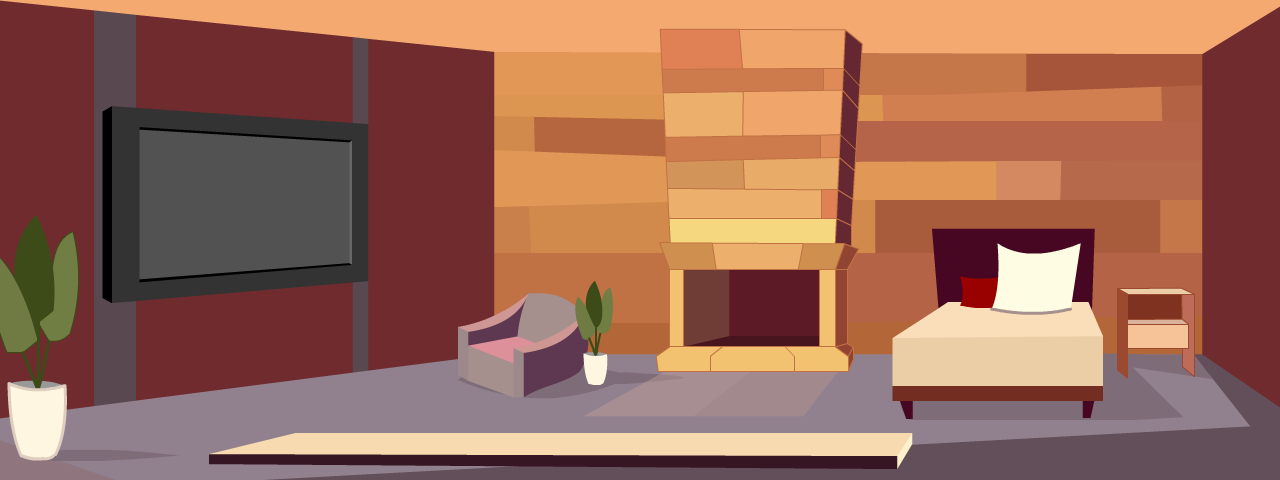
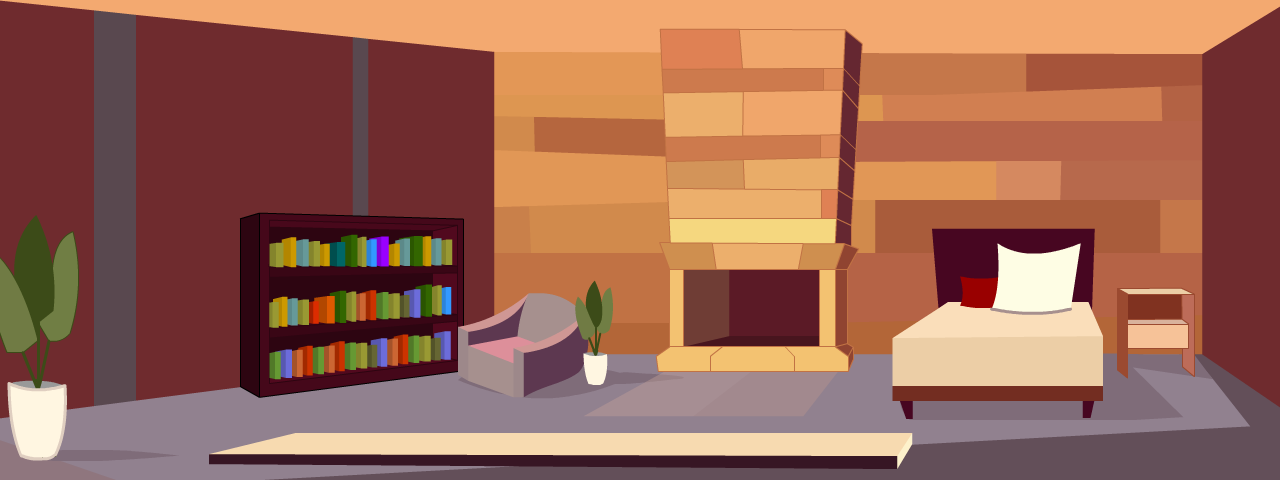
Update fervie bedroom to put in a bookshelf

Changed region(s): [[0.0625, 0.2188, 0.375, 0.8438]]

diff --git a/public/index.html b/public/index.html
@@ -8,7 +8,7 @@
   <meta name="theme-color"
         content="#000000">
   <meta http-equiv="Content-Security-Policy"
-        content="script-src 'self'; connect-src 'self'; img-src 'self'; base-uri 'self';form-action 'self'">
+        content="script-src 'self'; base-uri 'self';form-action 'self'">
   <link rel="manifest"
         href="%PUBLIC_URL%/manifest.json">
   <title>FlowInsight</title>
